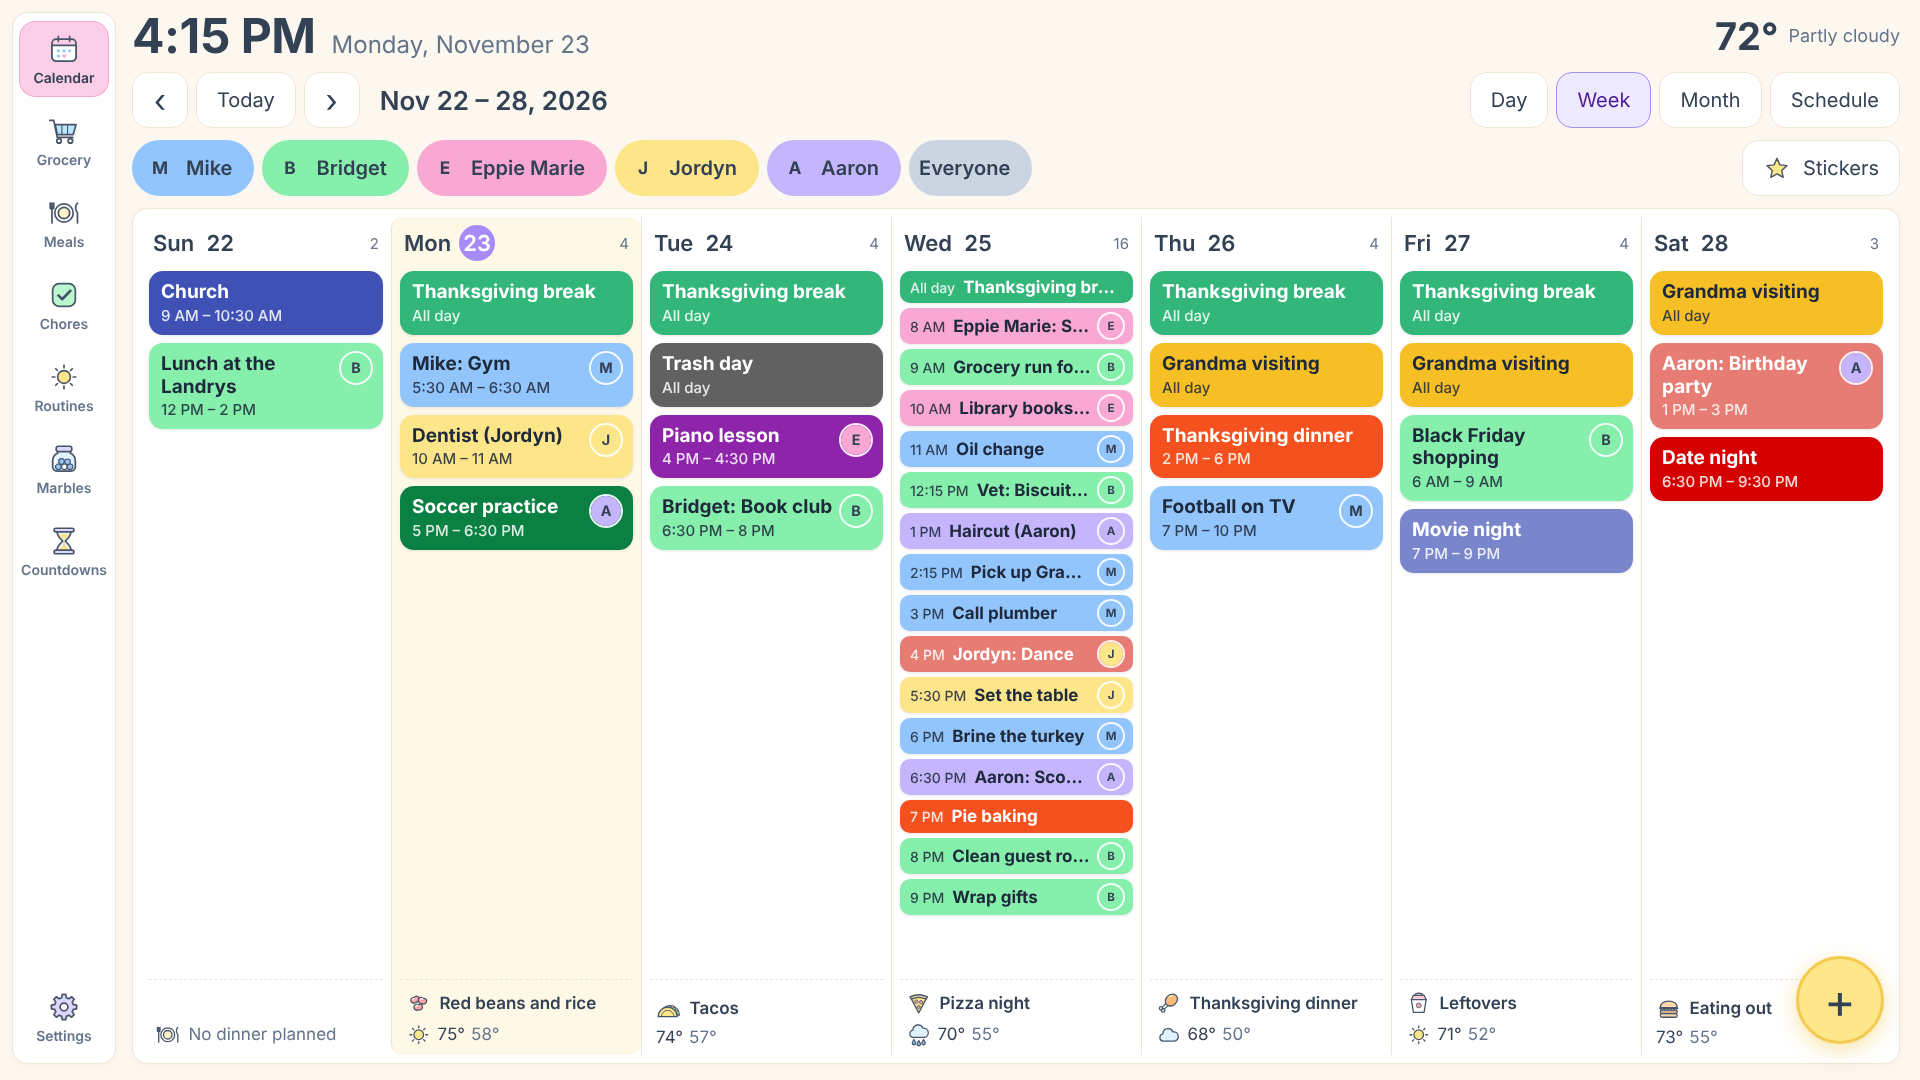
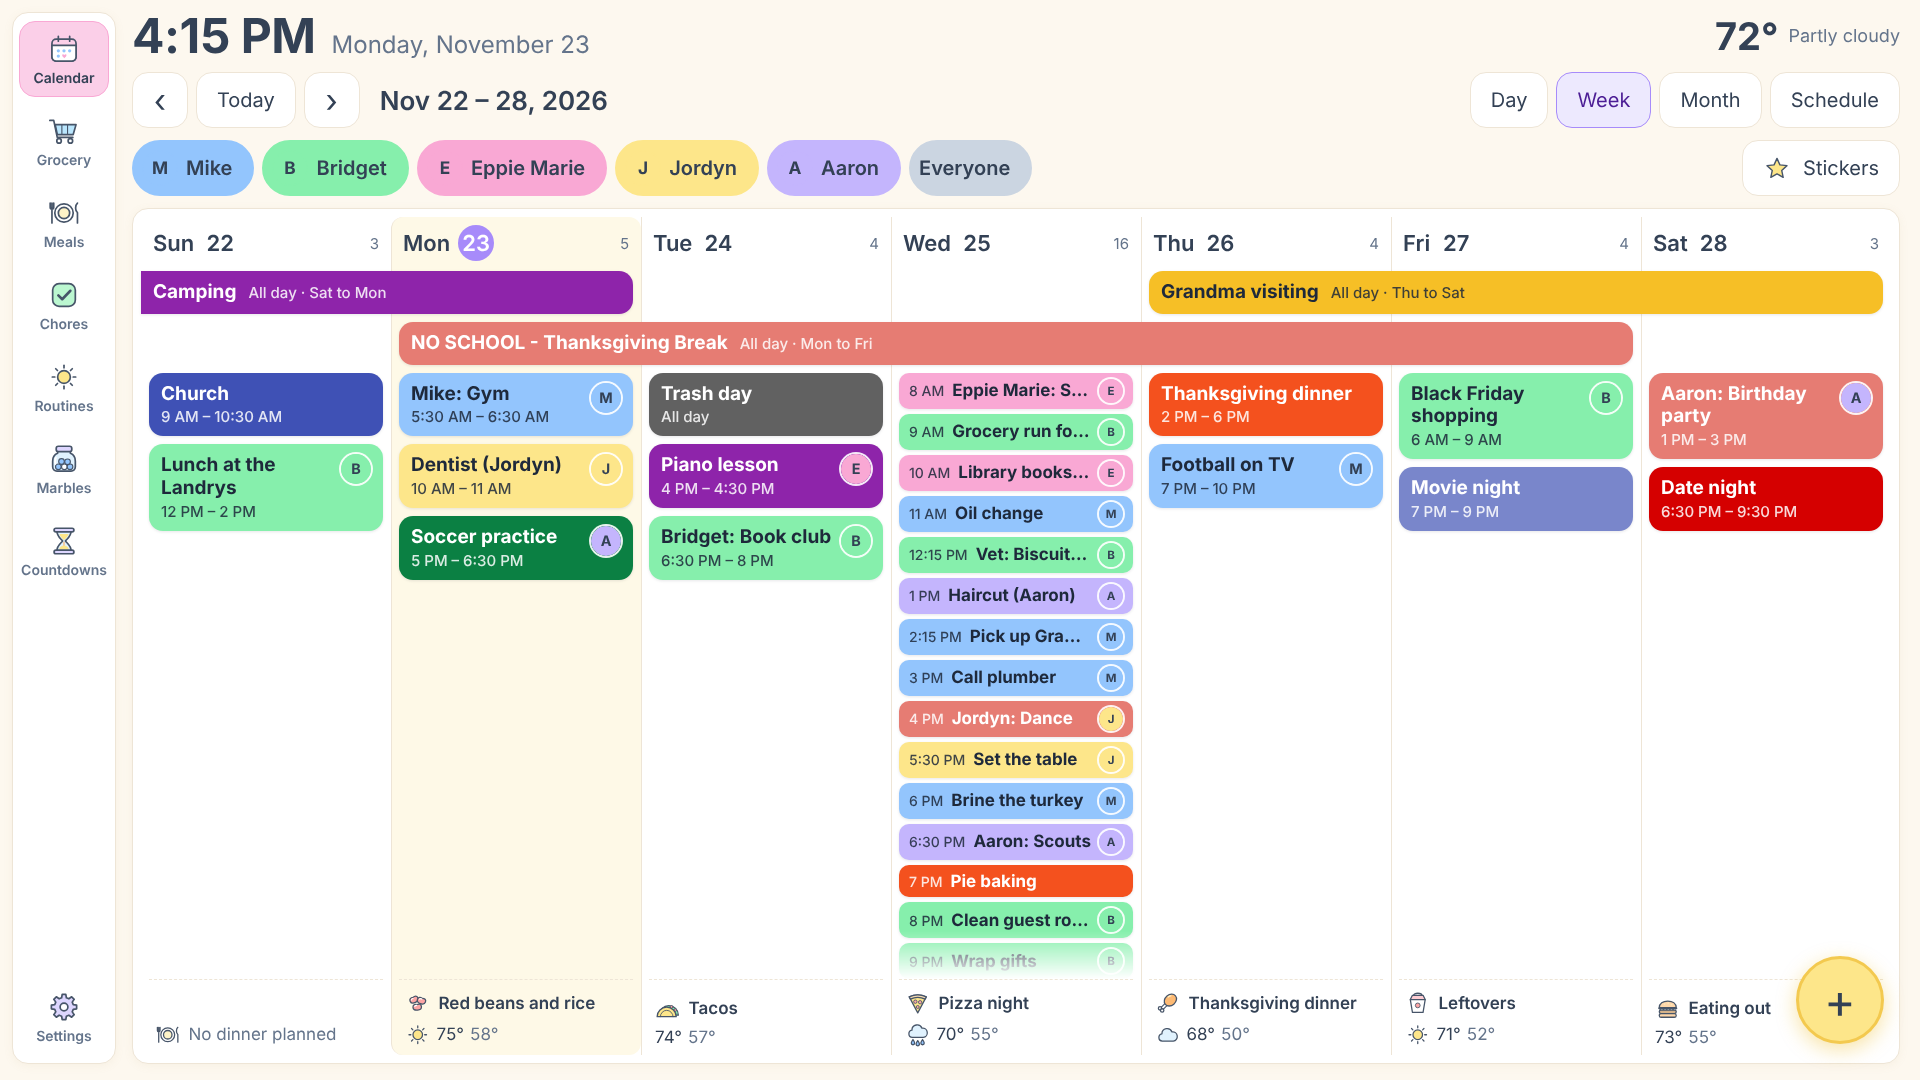
Week view: join multi-day and back-to-back all-day events into one bar
All-day events covering two or more shown days, including a run of separate
same-title, same-colour all-day events on consecutive days, now draw as one
bar across those days under the headings, stacked into lanes. Bars that
continue into the previous/next week get a square end.

Claude-Session: https://claude.ai/code/session_01DiwQaFStTdGog1yY3tiaqs

diff --git a/frontend/src/AgendaWeek.jsx b/frontend/src/AgendaWeek.jsx
@@ -26,6 +26,56 @@ function eventsOn(events, day) {
     .sort((a, b) => (b.allDay - a.allDay) || (a.start - b.start) || a.title.localeCompare(b.title))
 }
 
+const dayIndex = (start, d) => Math.round((new Date(d.getFullYear(), d.getMonth(), d.getDate()) - start) / 86400000)
+
+/**
+ * All-day events that cover two or more of the shown days become one bar across those days. That includes one
+ * multi-day event and also a run of separate all-day events with the same title and colour on back-to-back days
+ * (how a "No school" week is often entered). Bars are stacked into lanes so they never overlap.
+ */
+function buildSpans(events, start) {
+  const groups = {}
+  for (const e of events) {
+    if (!e.allDay || !e.start) continue
+    const key = `${e.title.trim().toLowerCase()}|${e.backgroundColor}`
+    ;(groups[key] ??= []).push(e)
+  }
+  const runs = []
+  for (const list of Object.values(groups)) {
+    list.sort((a, b) => a.start - b.start)
+    let run = null
+    for (const e of list) {
+      const end = e.end ?? addDays(e.start, 1)
+      if (run && e.start <= run.end) {
+        if (end > run.end) run.end = end
+        run.events.push(e)
+      } else {
+        run = { ev: e, start: e.start, end, events: [e] }
+        runs.push(run)
+      }
+    }
+  }
+  const spans = runs
+    .map((r) => ({ ...r, from: Math.max(0, dayIndex(start, r.start)), to: Math.min(7, dayIndex(start, r.end)) }))
+    .filter((r) => r.to - r.from >= 2)
+    .sort((a, b) => a.from - b.from || (b.to - b.from) - (a.to - a.from))
+  const lanes = [] // last day used in each lane
+  for (const sp of spans) {
+    let lane = lanes.findIndex((busyUntil) => busyUntil <= sp.from)
+    if (lane === -1) lane = lanes.length
+    lanes[lane] = sp.to
+    sp.lane = lane
+  }
+  return spans
+}
+
+// "All day · Mon to Fri" (end is exclusive, so the last day is the day before it)
+function spanLabel(sp) {
+  const last = addDays(sp.end, -1)
+  const wd = (d) => d.toLocaleDateString([], { weekday: 'short' })
+  return `All day · ${wd(sp.start)} to ${wd(last)}`
+}
+
 function whenLabel(ev, compact) {
   if (ev.allDay) return 'All day'
   if (compact) return shortTime(ev.start) // one-line cards: start time only, so the title gets the room
@@ -51,7 +101,7 @@ function useDinners(start, version) {
   return byDay
 }
 
-function DayColumn({ day, events, isToday, size, peopleById, dinner, weather, onEvent, onDay }) {
+function DayColumn({ day, col, events, size, peopleById, dinner, weather, onEvent, onDay }) {
   const bodyRef = useRef(null)
   const [overflows, setOverflows] = useState(false)
   const compact = events.length >= COMPACT_AT
@@ -67,12 +117,7 @@ function DayColumn({ day, events, isToday, size, peopleById, dinner, weather, on
   }, [events.length, size])
 
   return (
-    <section className={`agenda-day${isToday ? ' today' : ''}`} data-date={toDay(day)}>
-      <header className="agenda-day-head">
-        <span className="dow">{day.toLocaleDateString([], { weekday: 'short' })}</span>
-        <span className="num">{day.getDate()}</span>
-        {events.length > 0 && <span className="count">{events.length}</span>}
-      </header>
+    <section className="agenda-day" data-date={toDay(day)} style={{ gridColumn: col, gridRow: 3 }}>
       <div
         ref={bodyRef}
         className={`agenda-day-body${compact ? ' compact' : ''}${overflows ? ' more' : ''}`}
@@ -125,19 +170,63 @@ function DayColumn({ day, events, isToday, size, peopleById, dinner, weather, on
  */
 export default function AgendaWeek({ start, events, peopleById, weather, mealsVersion, onEvent, onDay }) {
   const days = Array.from({ length: 7 }, (_, i) => addDays(start, i))
+  const spans = buildSpans(events, start)
+  const inSpan = new Set(spans.flatMap((sp) => sp.events))
   const perDay = days.map((d) => eventsOn(events, d))
-  const size = sizeFor(Math.max(0, ...perDay.map((l) => l.length)))
+  const cards = perDay.map((list) => list.filter((e) => !inSpan.has(e)))
+  const size = sizeFor(Math.max(0, ...cards.map((l) => l.length)))
   const dinners = useDinners(start, mealsVersion)
   const forecast = Object.fromEntries((weather?.days ?? []).map((d) => [d.date, d]))
   const today = toDay(new Date())
   return (
     <div className={`agenda-week ${size}`}>
       {days.map((d, i) => (
+        <div key={`bg${i}`} className={`agenda-col${toDay(d) === today ? ' today' : ''}`} style={{ gridColumn: i + 1 }} />
+      ))}
+      {days.map((d, i) => (
+        <header
+          key={`h${i}`}
+          className={`agenda-day-head${toDay(d) === today ? ' today' : ''}`}
+          style={{ gridColumn: i + 1, gridRow: 1 }}
+        >
+          <span className="dow">{d.toLocaleDateString([], { weekday: 'short' })}</span>
+          <span className="num">{d.getDate()}</span>
+          {perDay[i].length > 0 && <span className="count">{perDay[i].length}</span>}
+        </header>
+      ))}
+      {spans.length > 0 && (
+        <div className="agenda-spans" style={{ gridColumn: '1 / -1', gridRow: 2 }}>
+          {spans.map((sp) => {
+            const row = sp.ev.extendedProps.row
+            const person = peopleById[row?.person_id]
+            return (
+              <button
+                key={sp.ev.id}
+                className={`agenda-card agenda-span${dayIndex(start, sp.start) < 0 ? ' cont-left' : ''}${dayIndex(start, sp.end) > 7 ? ' cont-right' : ''}`}
+                style={{
+                  gridColumn: `${sp.from + 1} / ${sp.to + 1}`,
+                  gridRow: sp.lane + 1,
+                  background: sp.ev.backgroundColor,
+                  color: sp.ev.textColor,
+                }}
+                onClick={() => onEvent(sp.ev)}
+              >
+                <span className="agenda-text">
+                  <span className="agenda-title">{sp.ev.title}</span>
+                  <span className="agenda-when">{spanLabel(sp)}</span>
+                </span>
+                {person && <Avatar person={person} size={28} />}
+              </button>
+            )
+          })}
+        </div>
+      )}
+      {days.map((d, i) => (
         <DayColumn
           key={toDay(d)}
           day={d}
-          events={perDay[i]}
-          isToday={toDay(d) === today}
+          col={i + 1}
+          events={cards[i]}
           size={size}
           peopleById={peopleById}
           dinner={dinners[toDay(d)]}

diff --git a/frontend/src/styles.css b/frontend/src/styles.css
@@ -681,14 +681,27 @@ button[aria-label] > .ic:only-child, .icon-pick .ic, .icon-grid .ic { margin-rig
 /* ---- Week as seven columns of event cards (AgendaWeek.jsx) ---- */
 .calendar { position: relative; }
 .calendar.agenda-mode .fc { visibility: hidden; pointer-events: none; }
-.agenda-week { position: absolute; inset: 8px; display: grid; grid-template-columns: repeat(7, minmax(0, 1fr)); }
-.agenda-day { display: flex; flex-direction: column; min-height: 0; border-left: 1px solid var(--line); }
-.agenda-day:first-child { border-left: none; }
-.agenda-day.today { background: var(--today); border-radius: 12px; }
+.agenda-week {
+  position: absolute; inset: 8px; display: grid;
+  grid-template-columns: repeat(7, minmax(0, 1fr)); grid-template-rows: auto auto minmax(0, 1fr);
+}
+/* full-height column backgrounds: the divider lines and today's tint, behind everything else */
+.agenda-col { grid-row: 1 / -1; border-left: 1px solid var(--line); }
+.agenda-col:first-child { border-left: none; }
+.agenda-col.today { background: var(--today); border-radius: 12px; }
+.agenda-day { display: flex; flex-direction: column; min-height: 0; }
+/* bars for events that run across several days */
+.agenda-spans { display: grid; grid-template-columns: repeat(7, minmax(0, 1fr)); grid-auto-rows: auto; gap: 8px 0; padding-bottom: 8px; position: relative; }
+.agenda-card.agenda-span { margin: 0 8px; width: auto; align-items: center; }
+.agenda-span .agenda-text { flex-direction: row; align-items: baseline; gap: 12px; }
+.agenda-span .agenda-title { white-space: nowrap; overflow: hidden; text-overflow: ellipsis; min-width: 0; }
+.agenda-span .agenda-when { white-space: nowrap; margin: 0; flex: none; }
+.agenda-card.agenda-span.cont-left { margin-left: 0; border-top-left-radius: 0; border-bottom-left-radius: 0; }
+.agenda-card.agenda-span.cont-right { margin-right: 0; border-top-right-radius: 0; border-bottom-right-radius: 0; }
 .agenda-day-head { display: flex; align-items: center; gap: 8px; padding: 8px 12px 10px; }
 .agenda-day-head .dow { font-size: 22px; font-weight: 600; }
 .agenda-day-head .num { font-size: 22px; font-weight: 600; min-width: 36px; height: 36px; display: inline-grid; place-items: center; border-radius: 999px; }
-.agenda-day.today .num { background: var(--accent); color: #fff; }
+.agenda-day-head.today .num { background: var(--accent); color: #fff; }
 .agenda-day-head .count { margin-left: auto; font-size: 15px; color: var(--muted); }
 .agenda-day-body { flex: 1; min-height: 0; overflow-y: auto; scrollbar-width: none; display: flex; flex-direction: column; gap: 8px; padding: 0 8px 8px; }
 .agenda-day-body::-webkit-scrollbar { display: none; }
@@ -699,12 +712,12 @@ button[aria-label] > .ic:only-child, .icon-pick .ic, .icon-grid .ic { margin-rig
   border: none; border-radius: 14px; box-shadow: 0 1px 3px rgba(15, 23, 42, 0.1);
 }
 .agenda-text { flex: 1; min-width: 0; display: flex; flex-direction: column; }
-.agenda-title { font-weight: 700; line-height: 1.2; overflow-wrap: anywhere; }
+.agenda-title { font-weight: 700; line-height: 1.2; overflow-wrap: break-word; hyphens: auto; }
 .agenda-when { font-weight: 500; opacity: 0.85; margin-top: 2px; }
 .agenda-card .avatar { flex: none; box-shadow: 0 0 0 2px rgba(255, 255, 255, 0.9); }
 /* card size follows the busiest day of the week */
 .size-xl .agenda-card { padding: 16px 14px; border-radius: 16px; }
-.size-xl .agenda-title { font-size: 26px; }
+.size-xl .agenda-title { font-size: 24px; }
 .size-xl .agenda-when { font-size: 19px; }
 .size-l .agenda-card { padding: 12px 12px; }
 .size-l .agenda-title { font-size: 22px; }

diff --git a/docs/screen-layout.md b/docs/screen-layout.md
@@ -13,7 +13,7 @@
 - **Card size follows the week.** When no day has more than 3 events the cards are big; up to 5 they're medium; busier weeks get standard cards.
 - **Busy days.** A day with 8 or more events switches to one-line cards (start time and title). If it still doesn't fit, only that day's column scrolls, and its bottom edge fades out so you can tell there's more. The other days stay put.
 - **Day footers.** The bottom of each column shows that night's dinner from the Meals page and that day's weather (icon, high and low). The forecast reaches 5 days ahead, so past days and days further out show dinner only.
-- Events that last several days (like a visit or a school break) show on each day they cover.
+- **Events across several days join into one bar** under the day headings, like a visit or a school break. That also works when the same all-day event (same title and colour) was entered separately on back-to-back days, like "NO SCHOOL" Monday to Friday. Bars that start before or run past this week have a square end on that side. Tap a bar to see the event.
 - Tap empty space in a column (or "+ Add" on an empty day) to add an event that day. Stickers work here too.
 
 ![A busy Wednesday with one-line cards](agenda-busy.png)
